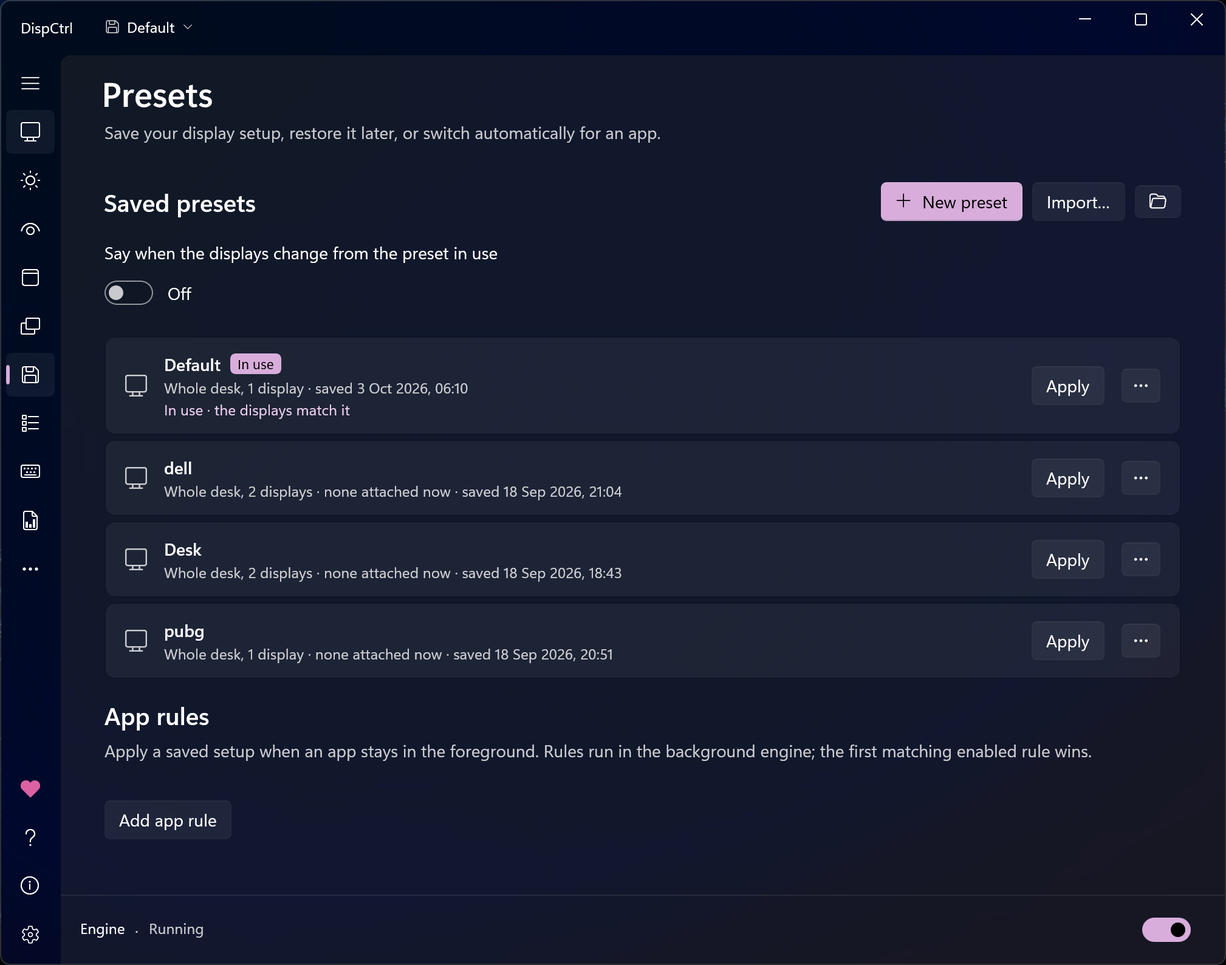
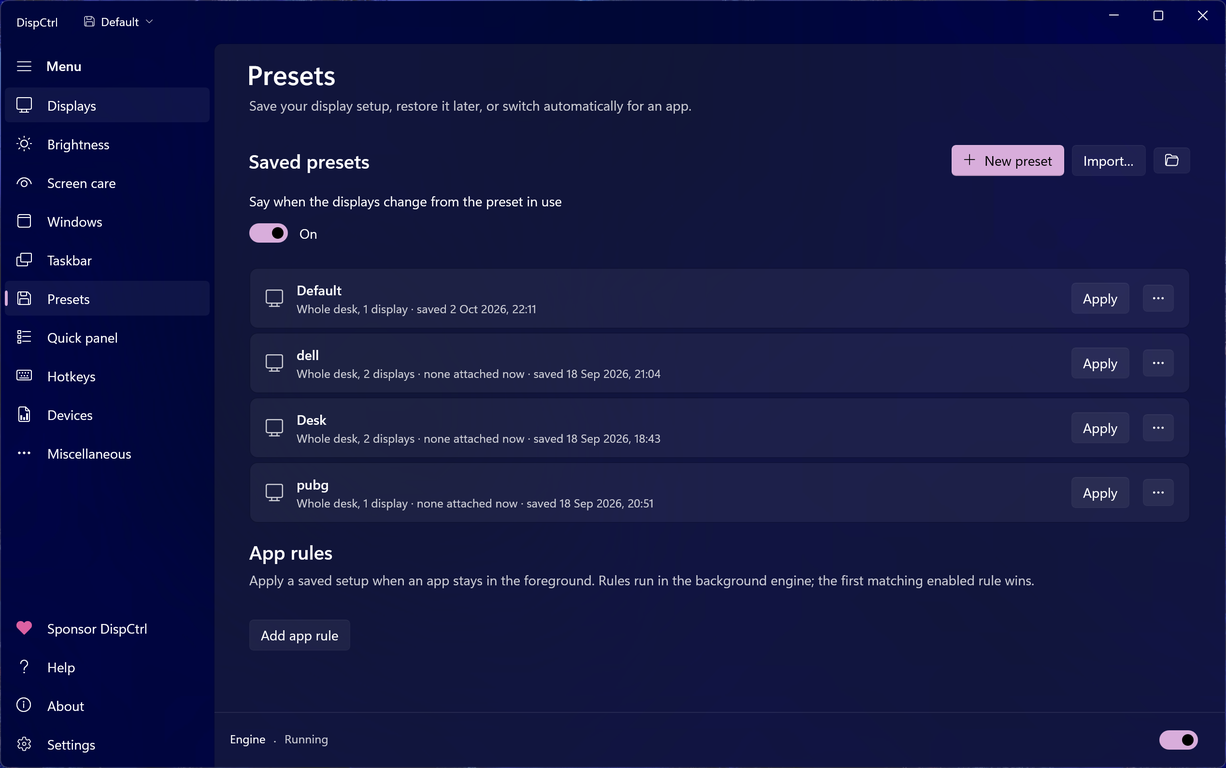
Screenshots retaken with two displays, a wider window and nothing dimmed
Every image in the README and on the website is retaken on the installed
build and the owner's own settings, with the virtual 24-inch display beside
the laptop, so unison, both displays' sliders and a two-display arrangement
show. The window is wider (1280 x 800) so the navigation pane shows its
labels without going full screen; every other window minimised, the
wallpaper behind the backdrop and on both displays. OLED care stayed on and
is shown on: a nudge of input before each capture kept its idle clock from
dimming anything, which had greyed the earlier terminal shot. The preset
drift notice was closed in the open window only, nothing saved. The virtual
display is marked Virtual where DispCtrl describes it, as it now always is.
The site's image dimensions follow the new proportions.

diff --git a/site/index.html b/site/index.html
@@ -618,9 +618,9 @@ footer{margin-top:40px;border-top:1px solid var(--line);background:linear-gradie
     <span class="art blob" data-depth="6"></span>
     <span class="art ring" data-depth="14"></span>
     <span class="art pane" data-depth="22"></span>
-    <img class="layer l-back" data-depth="10" src="assets/screenshots/taskbar.png" alt="Taskbar appearance and reveal settings" width="1226" height="965">
-    <img class="layer l-main" data-depth="22" src="assets/screenshots/displays.png" alt="The DispCtrl window" width="1226" height="965">
-    <img class="layer l-panel" data-depth="40" src="assets/screenshots/quick-panel.png" alt="The quick panel" width="720" height="1000">
+    <img class="layer l-back" data-depth="10" src="assets/screenshots/taskbar.png" alt="Taskbar appearance and reveal settings" width="1226" height="768">
+    <img class="layer l-main" data-depth="22" src="assets/screenshots/displays.png" alt="The DispCtrl window" width="1226" height="768">
+    <img class="layer l-panel" data-depth="40" src="assets/screenshots/quick-panel.png" alt="The quick panel" width="720" height="1160">
     <div class="float f1" data-depth="55"><span class="d"><svg viewBox="0 0 24 24"><circle cx="12" cy="12" r="4"/><path d="M12 2v2m0 16v2M2 12h2m16 0h2"/></svg></span><span>Unison 62%<small>Every display, in step</small></span></div>
     <div class="float f2" data-depth="48"><span class="d"><svg viewBox="0 0 24 24"><path d="M20 14.5A8 8 0 0 1 9.5 4a8 8 0 1 0 10.5 10.5z"/></svg></span><span>Night light<small>20:00 – 07:00</small></span></div>
     <div class="float f3" data-depth="60"><span class="d"><svg viewBox="0 0 24 24"><rect x="3" y="4" width="18" height="13" rx="2"/><path d="M3 14h18"/></svg></span><span>Taskbar hidden<small>on the laptop only</small></span></div>
@@ -772,7 +772,7 @@ footer{margin-top:40px;border-top:1px solid var(--line);background:linear-gradie
 
 <section id="panel" style="padding-top:20px">
   <div class="wrap split">
-    <div class="panelshot reveal"><img src="assets/screenshots/quick-panel.png" alt="The DispCtrl quick panel" width="720" height="1000" loading="lazy"></div>
+    <div class="panelshot reveal"><img src="assets/screenshots/quick-panel.png" alt="The DispCtrl quick panel" width="720" height="1160" loading="lazy"></div>
     <div class="reveal">
       <span class="eyebrow">Quick panel</span>
       <h2>One click from the taskbar</h2>
